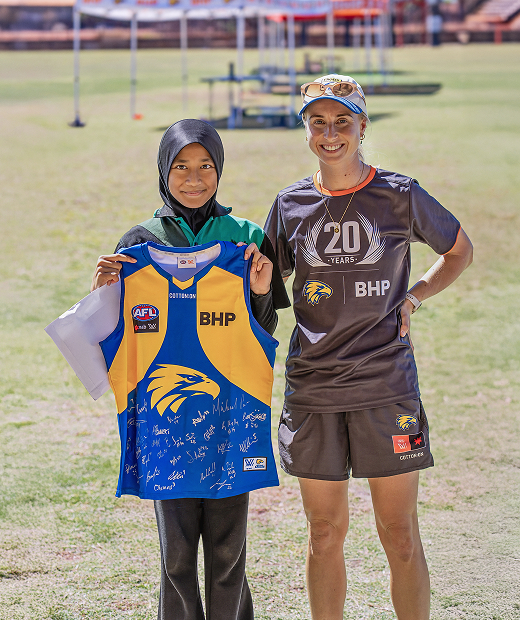
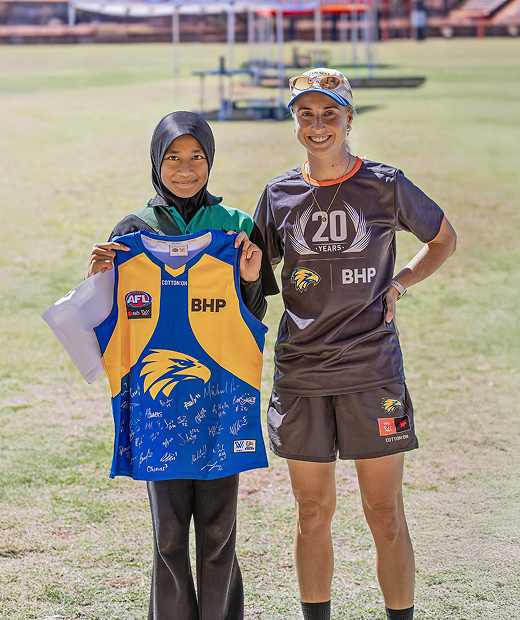
Updated image on 300x600 for TBA0432/08

diff --git a/TBA0432_08/300x600/index.html b/TBA0432_08/300x600/index.html
@@ -193,7 +193,7 @@
 
 		//frame 1
 		bgTimeline.add( new TweenLite.fromTo('#feature_background' , 0.3, {opacity:0}, {opacity: 1}));
-		bgTimeline.add( new TweenLite.fromTo('#feature_background', 12.9, {opacity:0, scale:1, y:0}, {scale: 1.2, y:1, rotation:0.1, force3D:true, ease: Linear.easeOut}), "-=0.95");
+		bgTimeline.add( new TweenLite.fromTo('#feature_background', 12.9, {opacity:0, scale:1, x:0, y:0}, {scale: 1.24, x:6, y:9, rotation:0.1, force3D:true, ease: Linear.easeOut}), "-=0.95");
 
 		theTimeline.add(new TweenLite.from('#copy1' , 0.7, {opacity:0, x:-5, ease:Power2.easeInOut}), "+=0.3");
 		theTimeline.add(new TweenLite.from('#copy2', 0.7, {opacity:0, x:-5, ease:Power2.easeInOut}), "-=0.35");
